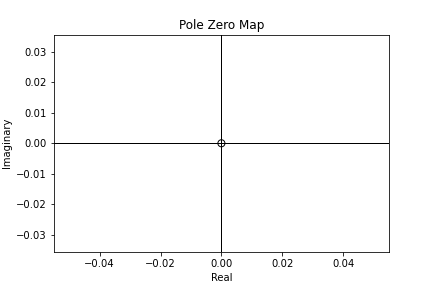
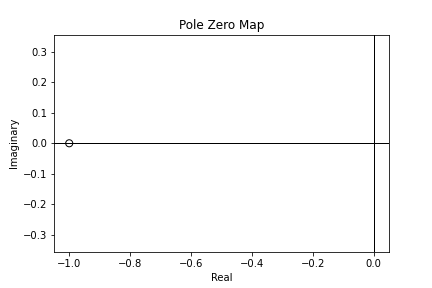
se corrijen figuras y se agraga script que las genera

diff --git a/doc/modulo_frec/bode_figures.py b/doc/modulo_frec/bode_figures.py
@@ -1,0 +1,244 @@
+# -*- coding: utf-8 -*-
+# ---
+# jupyter:
+#   jupytext:
+#     formats: ipynb,py:percent
+#     text_representation:
+#       extension: .py
+#       format_name: percent
+#       format_version: '1.3'
+#       jupytext_version: 1.10.2
+#   kernelspec:
+#     display_name: Python 3
+#     language: python
+#     name: python3
+# ---
+
+# %%
+import control as ctrl
+import numpy as np
+import matplotlib.pyplot as plt
+# %matplotlib inline
+
+# %% [markdown]
+# Figuras de 1 polo en cero
+
+# %%
+G = ctrl.tf(1, [1, 0])
+ctrl.pzmap(G)
+fig = plt.gcf()
+fig.savefig('Figure_1.png')
+
+# %%
+G = ctrl.tf(1, [1, 0])
+ctrl.bode(G, dB=True)
+fig = plt.gcf()
+fig.savefig('Figure_2.png')
+
+# %% [markdown]
+# Polos multiples en el origen
+
+# %%
+G = ctrl.tf(1, [1, 0, 0])
+ctrl.pzmap(G)
+fig = plt.gcf()
+fig.savefig('Figure_3.png')
+
+# %%
+plt.figure()
+ctrl.bode(G, dB=True)
+fig = plt.gcf()
+fig.savefig('Figure_4.png')
+
+# %% [markdown]
+# Polo real negativo
+
+# %%
+G = ctrl.tf(1, [1, 1])
+ctrl.pzmap(G)
+fig = plt.gcf()
+fig.savefig('Figure_5.png')
+
+# %%
+fig = plt.figure()
+ctrl.bode(G)
+fig.savefig('Figure_6.png')
+
+# %% [markdown]
+# Polos complejos conjugados
+
+# %%
+xi = 0.5
+wn = 1
+G = ctrl.tf(wn**2, [1, 2*xi*wn, wn**2])
+ctrl.pzmap(G)
+fig = plt.gcf()
+fig.savefig('Figure_7.png')
+
+# %%
+fig = plt.figure()
+xi = [0.9, 0.7, 0.5, 0.3, 0.1, 0.01]
+wn = 1
+for i in range(np.size(xi)):
+    G = ctrl.tf(wn**2, [1, 2*xi[i]*wn, wn**2])
+    ctrl.bode(G, dB=True, omega_num=2001)
+fig.savefig('Figure_8.png')
+
+# %% [markdown]
+# Cero simple en el origen
+
+# %%
+G = ctrl.tf([1, 0], 1)
+ctrl.pzmap(G)
+fig = plt.gcf()
+fig.savefig('Figure_9.png')
+
+# %%
+fig = plt.figure()
+ctrl.bode(G, dB=True)
+fig.savefig('Figure_10.png')
+
+# %% [markdown]
+# Cero multiple en el origen
+
+# %%
+G = ctrl.tf([1, 0, 0], 1)
+ctrl.pzmap(G)
+fig = plt.gcf()
+fig.savefig('Figure_11.png')
+
+# %%
+fig = plt.figure()
+ctrl.bode(G, dB=True)
+fig.savefig('Figure_12.png')
+
+# %% [markdown]
+# Cero negativo real simple
+
+# %%
+G = ctrl.tf([1, 1], 1)
+ctrl.pzmap(G)
+fig = plt.gcf()
+fig.savefig('Figure_13.png')
+
+# %%
+fig = plt.figure()
+ctrl.bode(G, dB=True)
+fig.savefig('Figure_14.png')
+
+# %% [markdown]
+# Cero real complejo conjugado
+
+# %%
+xi = [0.9, 0.7, 0.5, 0.3, 0.1, 0.01]
+wn = 1
+fig = plt.figure()
+for i in range(np.size(xi)):
+    G = ctrl.tf([1, 2*xi[i]*wn, wn**2], wn**2)
+    ctrl.bode(G, dB=True, omega_num=2001)
+fig.savefig('Figure_15.png')
+
+# %% [markdown]
+# Cero real simple de no mínima fase
+
+# %%
+G = ctrl.tf([1, -1], 1)
+ctrl.pzmap(G)
+fig = plt.gcf()
+fig.savefig('Figure_16.png')
+
+# %%
+
+fig = plt.figure()
+ctrl.bode(G, dB=True)
+fig.savefig('Figure_17.png')
+
+# %%
+G = 200*ctrl.tf([1, 0.5], [1, 60, 500, 0])
+
+# %% asintota polo en -10
+asin1_x = [0.01, 0.1, 1, 10, 100, 1000]
+asin1_y = [-14, -14, -14, -14, -34, -54]
+
+# %% asintota polo en -10 [markdown]
+# asintota polo en -50
+
+# %% asintota polo en -10
+asin2_x = [0.01, 0.1, 50, 500, 5000]
+asin2_y = [-14, -14, -14, -34, -54]
+
+# %% asintota polo en -10 [markdown]
+# sintota polo en 0
+
+# %% asintota polo en -10
+asin3_x = [0.01, 0.1,  1, 10, 100, 1000]
+asin3_y = [26, 6, -14, -34, -54, -74]
+
+# %% asintota polo en -10 [markdown]
+# asintota cero en 0.5
+
+# %% asintota polo en -10
+asin4_x = [0.01, 0.1,  0.5, 5, 50, 500]
+asin4_y = [-14, -14, -14, 6, 26, 46]
+
+# %% [markdown]
+# Asintota final
+
+# %%
+asin_final_x = [0.01, 0.1, 0.5,  1, 10,  50, 500, 5000]
+asin_final_y = [26,     6,  -8, -8, -8, -22, -62, -102]
+
+# %%
+mag, ph, w = ctrl.bode(G, omega_limits=(0.01, 1000), omega_num=2001,
+                       dB=True, plot=False)
+# %% [raw]
+# Grafico de asintotas y bode "a mano"
+
+# %%
+fig, ax = plt.subplots(figsize=(12, 6))
+ax.semilogx(asin1_x, asin1_y, '--', alpha=0.4, label='Asíntotas polo -10')
+ax.semilogx(asin2_x, asin2_y, '--', alpha=0.4, label='Asíntotas polo -50')
+ax.semilogx(asin3_x, asin3_y, '--', alpha=0.4, label='Asíntota polo 0')
+ax.semilogx(asin4_x, asin4_y, '--', alpha=0.4, label='Asíntotas cero  -0.5')
+ax.set_xlim([0.01, 800])
+
+with plt.xkcd():
+    ax.semilogx(asin_final_x, asin_final_y, 'b--', alpha=0.8,
+                label='Composición asíntotas')
+    ax.spines['right'].set_color('none')
+    ax.spines['top'].set_color('none')
+    ax.xaxis.set_ticks_position('bottom')
+    ax.spines['bottom'].set_position(('data', 0))
+    ax.yaxis.set_ticks_position('left')
+    ax.spines['left'].set_position(('data', 0.01))
+
+    ax.semilogx(w, 20*np.log10(mag), 'k-.', alpha=0.45, label='Bode final a mano')
+    ax.scatter([0.011, 10, 50], [0, 0, 0], color='red', s=100, marker='x',
+               linewidths=3)
+    ax.scatter([0.5], [0], s=100, marker='o', color='r', linewidths=3)
+    ax.legend(loc='lower left')
+fig.savefig('asintotico_mag.png')
+
+# %%
+ang_x = [0.01, 0.1, 0.5, 0.5, 1, 10, 10, 50, 50, 500, 5000]
+ang_y = [-90,  -90, -90,   0, 0, 0, -90, -90, -180, -180, -180]
+# %%
+fig, ax = plt.subplots(figsize=(12, 6))
+ax.semilogx(ang_x, ang_y, 'k-', alpha=0.7)
+with plt.xkcd():
+    ax.semilogx(w, ph*180/np.pi, 'r', label="fase a mano")
+    ax.spines['right'].set_color('none')
+    ax.spines['top'].set_color('none')
+    ax.xaxis.set_ticks_position('bottom')
+    ax.spines['bottom'].set_position(('data', 0))
+    ax.yaxis.set_ticks_position('left')
+    ax.spines['left'].set_position(('data', 0.01))
+    ax.set_xlim([0.01, 800])
+    ax.set_yticks([-180, -135, -90, -45, 0])
+
+ax.plot([0.011, 10, 50], [0, 0, 0], lw=0, marker='x', markersize=11, markerfacecolor='white', markeredgewidth=2, markeredgecolor="red") 
+
+ax.plot([0.5], [0], lw=0, marker='o', markersize=11, markerfacecolor='white', markeredgewidth=2, markeredgecolor="red")
+fig.savefig('asintotico_fase.png')
+
+# %%
